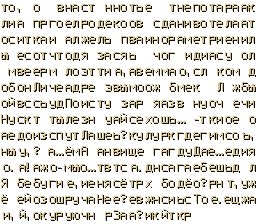
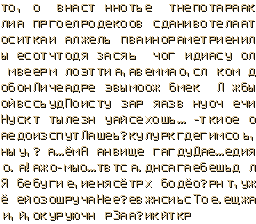
feat(font): update compact font atlas with user edited tiles and refresh preview poster

diff --git a/tools/generate_compact_font_preview.py b/tools/generate_compact_font_preview.py
@@ -1314,6 +1314,21 @@ def generate_raw_atlas(tokens: list[str]) -> Image.Image:
 # ---------------------------------------------------------------------------
 
 
+def extract_mask_from_atlas(atlas: Image.Image, idx: int) -> Image.Image:
+    col = (idx % 16) * 16
+    row = (idx // 16) * 16
+    crop = atlas.crop((col, row, col + 16, row + 16))
+    px_in = crop.load()
+    mask = Image.new("L", (16, 16), 0)
+    px_out = mask.load()
+    for py in range(16):
+        for px in range(16):
+            r, g, b, a = px_in[px, py]
+            if a > 30 and (r > 40 or g > 40 or b > 40):
+                px_out[px, py] = 255
+    return mask
+
+
 def create_grid_cell(
     index: int,
     token: str,
@@ -1321,6 +1336,7 @@ def create_grid_cell(
     glyph_hex: str,
     cell_w: int = 104,
     cell_h: int = 104,
+    atlas_mask: Image.Image | None = None,
 ) -> Image.Image:
     im = Image.new("RGBA", (cell_w, cell_h), (22, 24, 30, 255))
     draw = ImageDraw.Draw(im)
@@ -1330,8 +1346,11 @@ def create_grid_cell(
     draw.rectangle([2, 2, cell_w - 3, cell_h - 3], fill=(16, 17, 22, 255))
 
     # Render token mask
-    mat = render_compact(token)
-    mask = Image.fromarray(mat, mode="L")
+    if atlas_mask is not None:
+        mask = atlas_mask
+    else:
+        mat = render_compact(token)
+        mask = Image.fromarray(mat, mode="L")
     styled_1x = apply_text_style(
         mask, text_color=(220, 200, 150), shadow_color=(8, 8, 12)
     )
@@ -1393,6 +1412,14 @@ def create_grid_cell(
 def generate_compact_font_preview() -> None:
     tokens, counts, token_to_glyph = get_scene_03e_tokens()
 
+    raw_atlas_path = REPO_ROOT / "compact_font_atlas_raw.png"
+    loaded_raw_atlas: Image.Image | None = None
+    if raw_atlas_path.is_file():
+        loaded_raw_atlas = Image.open(raw_atlas_path).convert("RGBA")
+        print(f"Loaded existing custom tiles from {raw_atlas_path}")
+
+    token_to_idx = {tok: idx for idx, tok in enumerate(tokens)}
+
     # Dialogue text
     dialogue_lines = ["Ну вот мы и в", "Сонии. Слушай,", "Зел, прежде чем"]
 
@@ -1422,8 +1449,11 @@ def generate_compact_font_preview() -> None:
                 m_bin = Image.eval(m, lambda p: 255 if p >= 80 else 0)
                 im.paste(m_bin, (i * 16, 0))
             else:
-                mat = render_compact(tok)
-                m_bin = Image.fromarray(mat, mode="L")
+                if loaded_raw_atlas is not None and tok in token_to_idx:
+                    m_bin = extract_mask_from_atlas(loaded_raw_atlas, token_to_idx[tok])
+                else:
+                    mat = render_compact(tok)
+                    m_bin = Image.fromarray(mat, mode="L")
                 im.paste(m_bin, (i * 16, 0))
         lines_B.append(im)
 
@@ -1684,7 +1714,10 @@ def generate_compact_font_preview() -> None:
     mask_vo_A = Image.eval(
         _render_mask("во"), lambda p: 255 if p >= 80 else 0
     )
-    mask_vo_B = Image.fromarray(render_compact("во"), mode="L")
+    if loaded_raw_atlas is not None and "во" in token_to_idx:
+        mask_vo_B = extract_mask_from_atlas(loaded_raw_atlas, token_to_idx["во"])
+    else:
+        mask_vo_B = Image.fromarray(render_compact("во"), mode="L")
     crop_vo_A = apply_text_style(mask_vo_A).resize(
         (64, 64), Image.Resampling.NEAREST
     )
@@ -1696,7 +1729,10 @@ def generate_compact_font_preview() -> None:
     mask_ni_A = Image.eval(
         _render_mask("ни"), lambda p: 255 if p >= 80 else 0
     )
-    mask_ni_B = Image.fromarray(render_compact("ни"), mode="L")
+    if loaded_raw_atlas is not None and "ни" in token_to_idx:
+        mask_ni_B = extract_mask_from_atlas(loaded_raw_atlas, token_to_idx["ни"])
+    else:
+        mask_ni_B = Image.fromarray(render_compact("ни"), mode="L")
     crop_ni_A = apply_text_style(mask_ni_A).resize(
         (64, 64), Image.Resampling.NEAREST
     )
@@ -1708,7 +1744,10 @@ def generate_compact_font_preview() -> None:
     mask_yj_A = Image.eval(
         _render_mask("й,"), lambda p: 255 if p >= 80 else 0
     )
-    mask_yj_B = Image.fromarray(render_compact("й,"), mode="L")
+    if loaded_raw_atlas is not None and "й," in token_to_idx:
+        mask_yj_B = extract_mask_from_atlas(loaded_raw_atlas, token_to_idx["й,"])
+    else:
+        mask_yj_B = Image.fromarray(render_compact("й,"), mode="L")
     crop_yj_A = apply_text_style(mask_yj_A).resize(
         (64, 64), Image.Resampling.NEAREST
     )
@@ -1769,8 +1808,13 @@ def generate_compact_font_preview() -> None:
             tok = tokens[idx]
             cnt = counts[tok]
             g_hex = token_to_glyph.get(tok, f"0x{0x057+idx:03X}")
+            atlas_m = (
+                extract_mask_from_atlas(loaded_raw_atlas, idx)
+                if loaded_raw_atlas is not None
+                else None
+            )
             cell_im = create_grid_cell(
-                idx, tok, cnt, g_hex, cell_w=cell_w, cell_h=cell_h
+                idx, tok, cnt, g_hex, cell_w=cell_w, cell_h=cell_h, atlas_mask=atlas_m
             )
             master.alpha_composite(cell_im, (gx, gy))
         else:
@@ -1812,9 +1856,12 @@ def generate_compact_font_preview() -> None:
 
     # Save compact_font_atlas_raw.png
     out_raw = REPO_ROOT / "compact_font_atlas_raw.png"
-    raw_im = generate_raw_atlas(tokens)
-    raw_im.save(out_raw)
-    print(f"Generated {out_raw} ({raw_im.size[0]}x{raw_im.size[1]}) successfully!")
+    if not out_raw.exists():
+        raw_im = generate_raw_atlas(tokens)
+        raw_im.save(out_raw)
+        print(f"Generated {out_raw} ({raw_im.size[0]}x{raw_im.size[1]}) successfully!")
+    else:
+        print(f"Preserving existing custom {out_raw}")
 
 
 if __name__ == "__main__":
